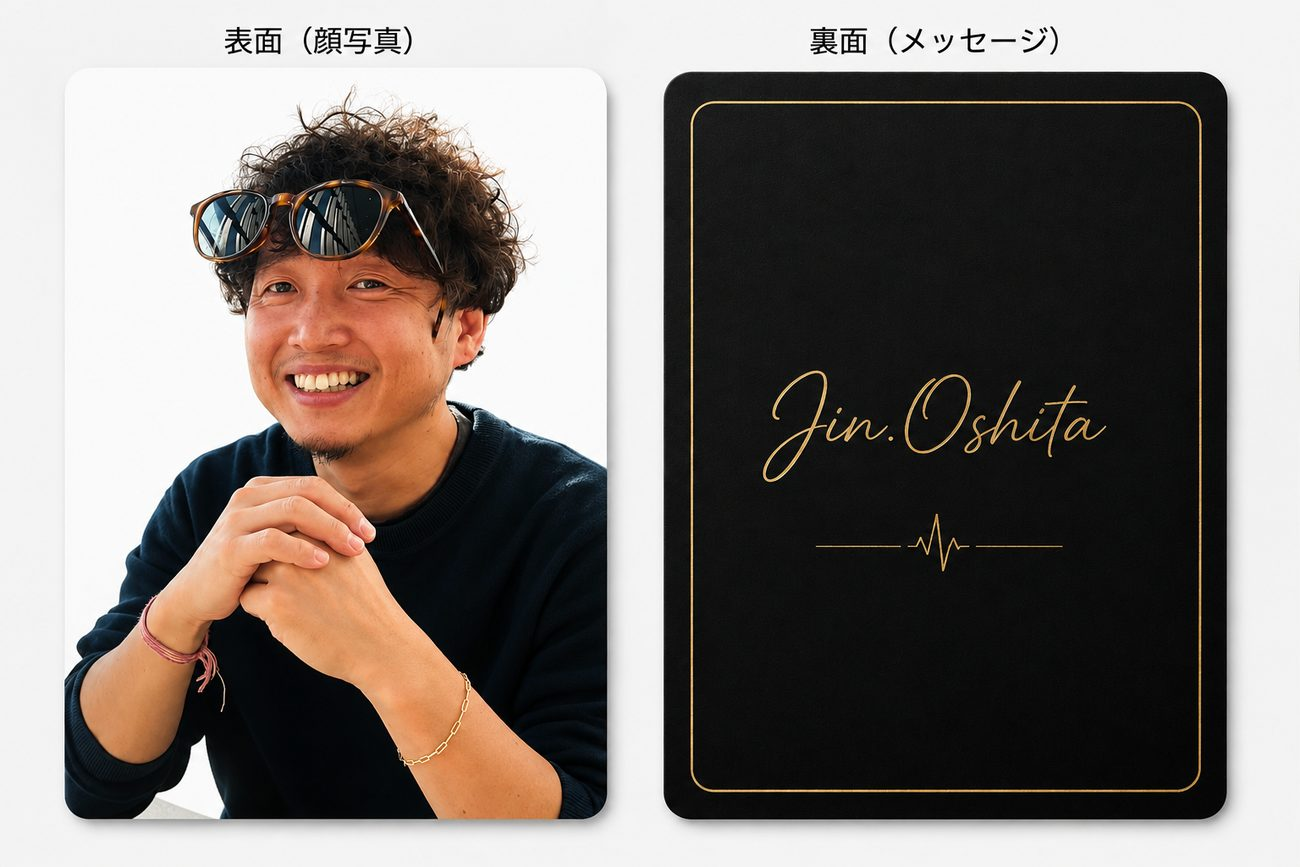
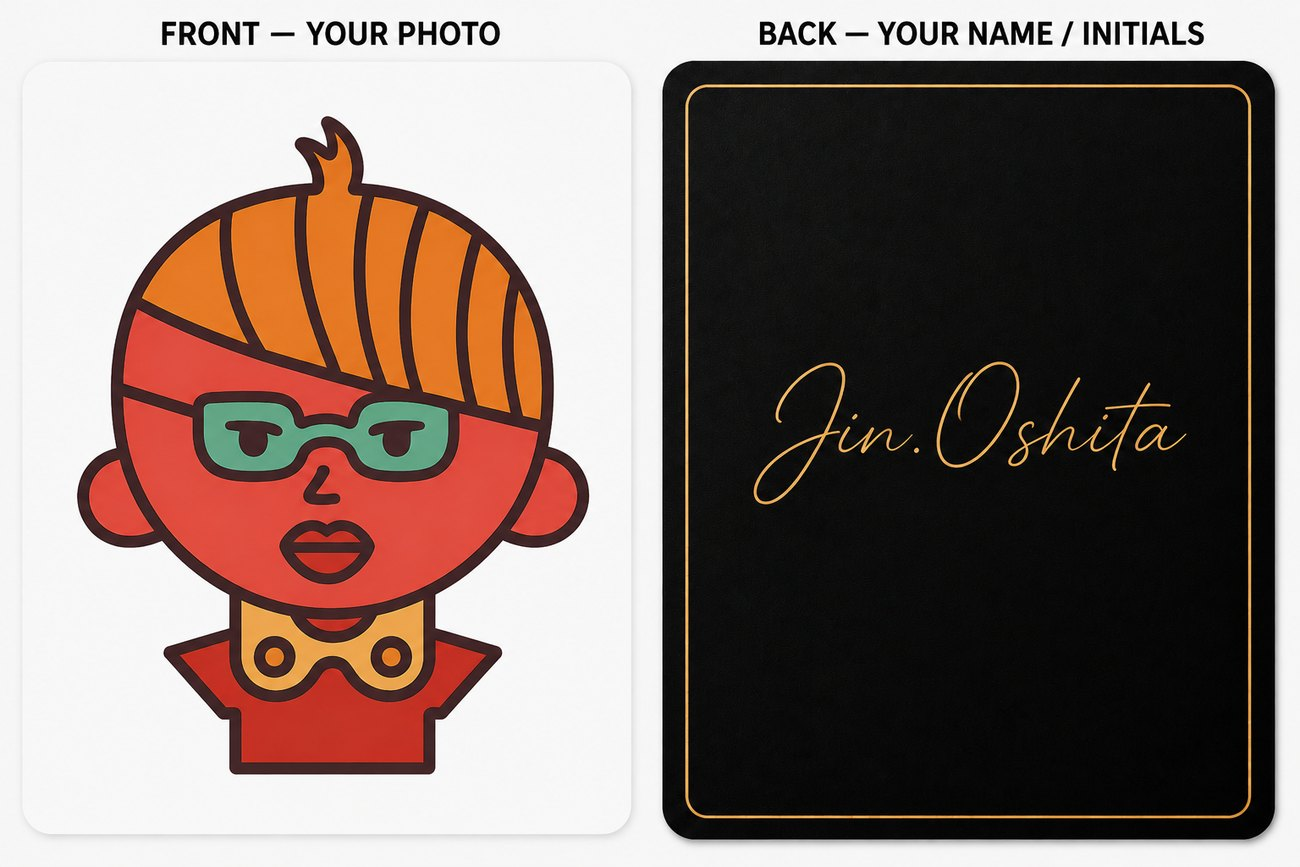
Use the character artwork for the certificate thumbnail and card design

diff --git a/index.html b/index.html
@@ -209,7 +209,7 @@
       </div>
       <div>
         <figure class="frame"><img src="images/card.jpg" alt="Front and back of a single piece"></figure>
-        <div class="caption">Front: your photograph. Back: your name.</div>
+        <div class="caption">Front: your portrait. Back: your name.</div>
         <figure class="frame" style="margin-top:22px"><img src="images/reverse.jpg" alt="The reverse side of all 23 artworks, forming one image"></figure>
         <div class="caption">60,000 names, assembled on the reverse side.</div>
       </div>
